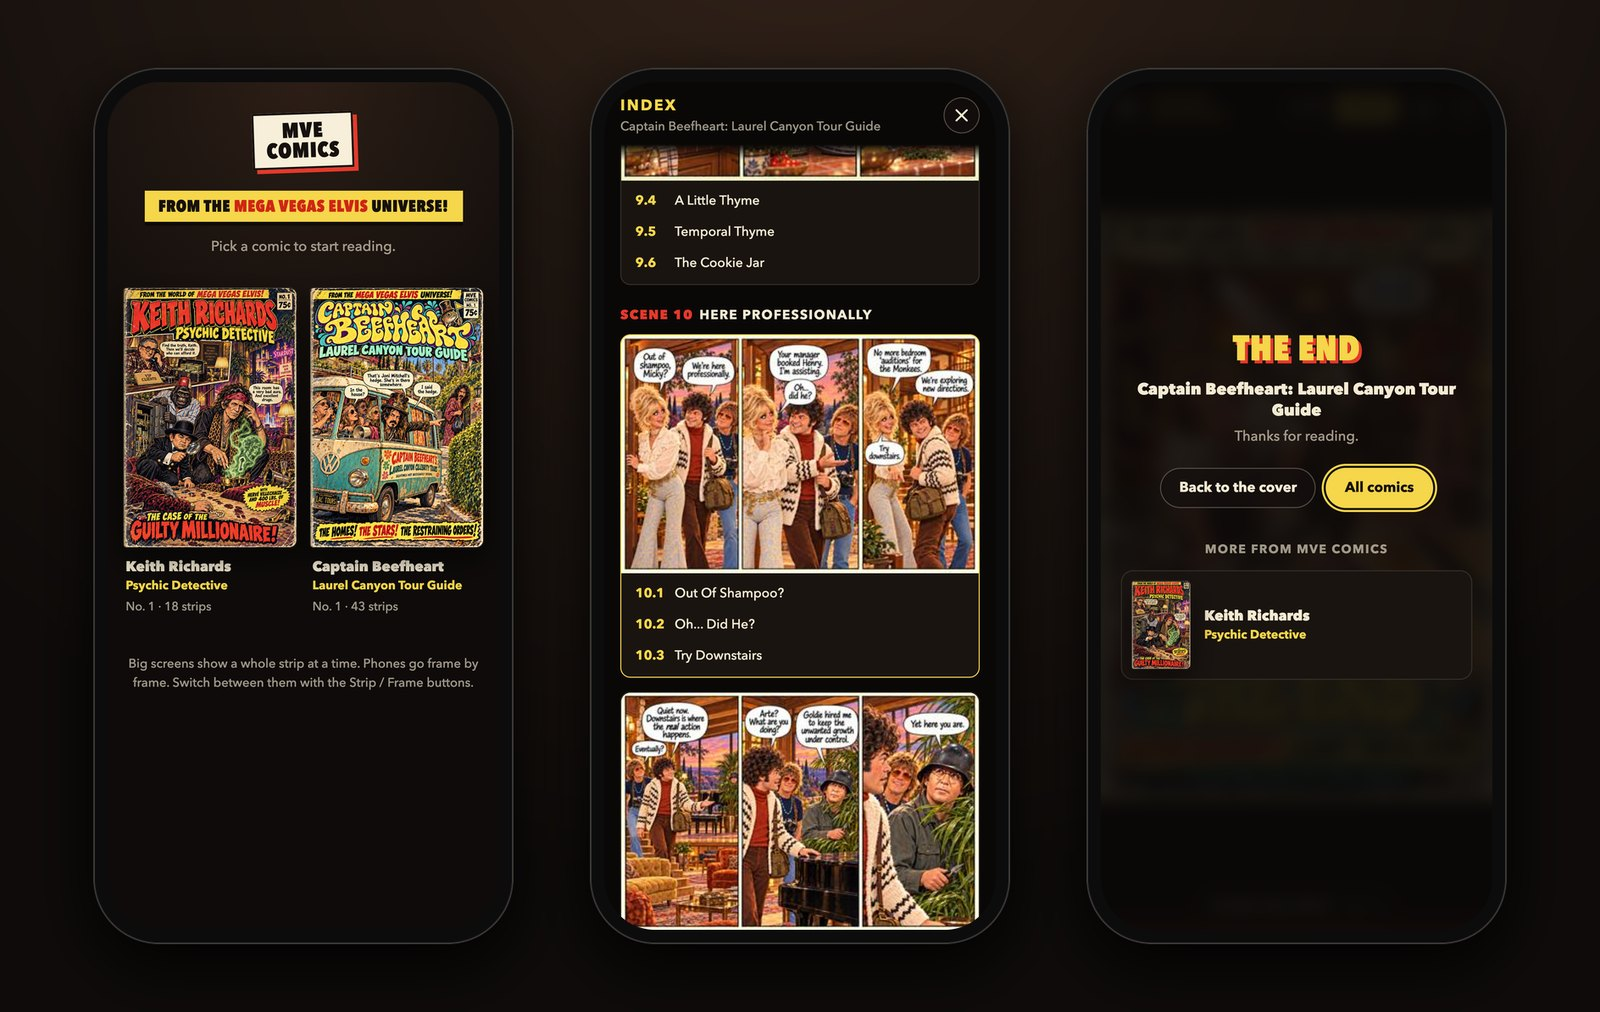
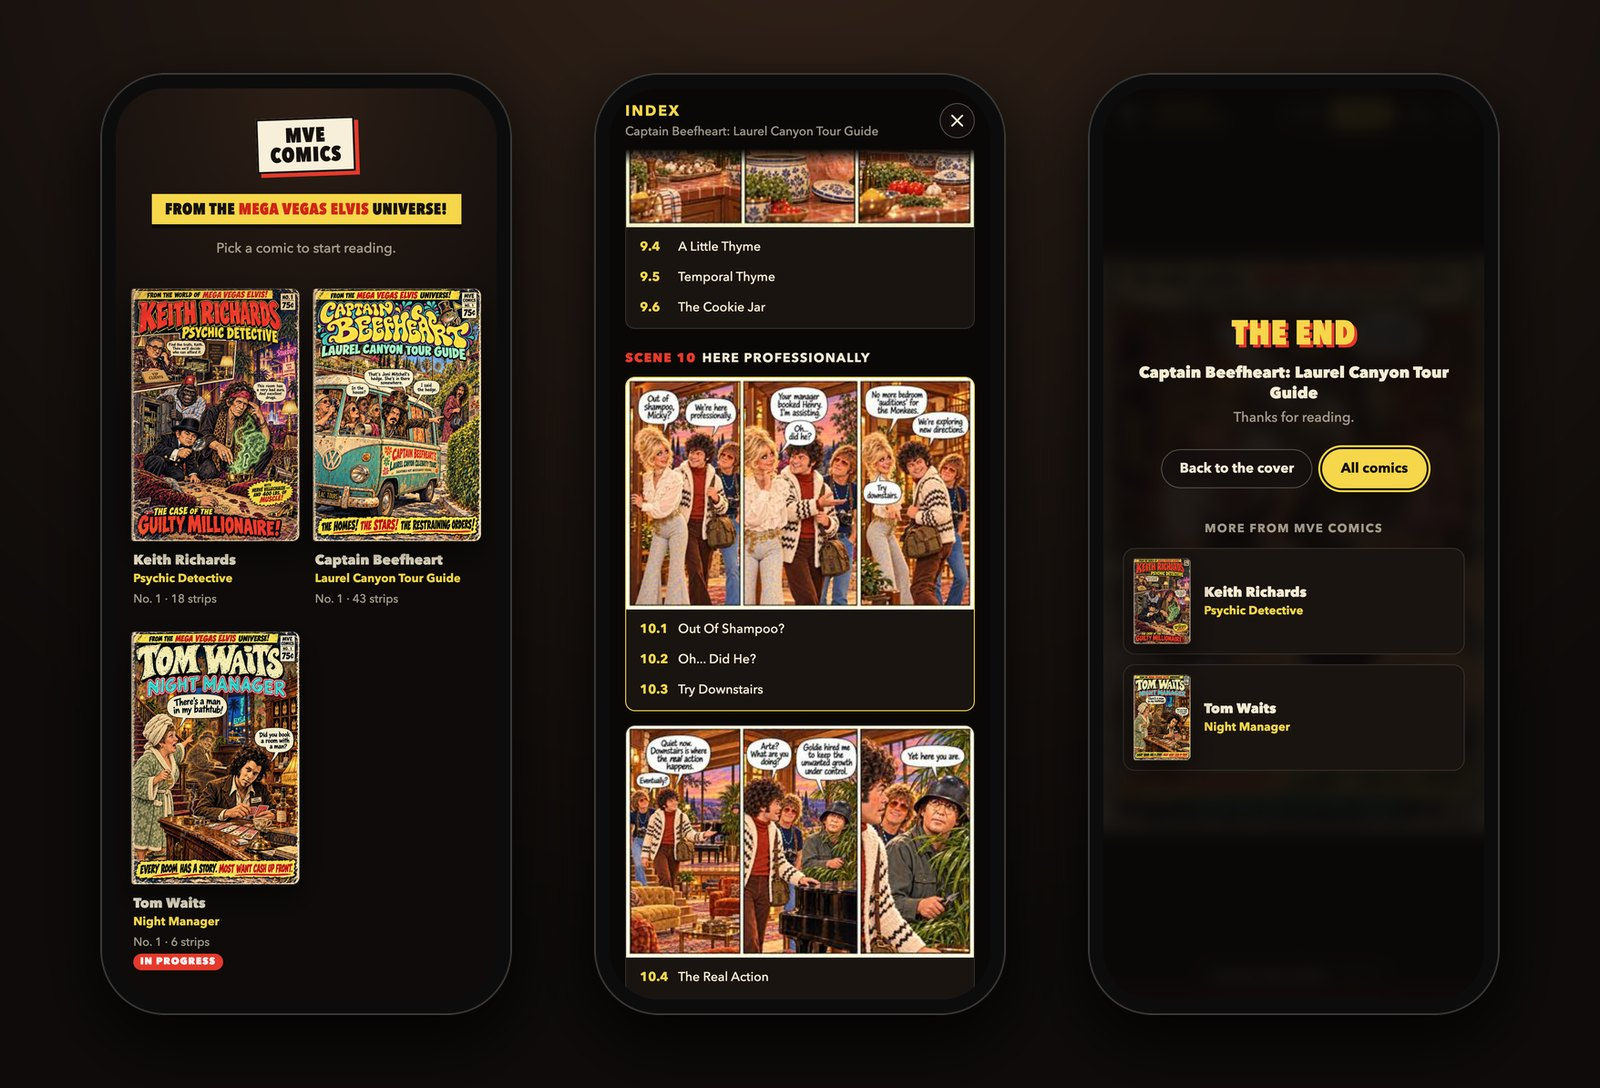
Add Tom Waits: Night Manager, in progress, and fix a fade race in the reader
The new comic has its cover and the first six strips, in three scenes
with 15 named frames. It is marked in progress, so its last page is
followed by "To be continued". It joins the shelf, the link-preview
image, and the README, whose comics section is now a row of covers with
a description under each so it reads well on narrow screens too.

Reader fix: a page jump fades out and then moves the camera to the
target it remembered when the fade began. A window resize inside that
170 ms left the camera on a stale single-frame crop while the reader
reported strip mode. The fade now moves to whichever stop is current
when it ends, and a slide or a resize cancels a pending fade.

Changed region(s): [[0.375, 0.0919, 0.625, 0.919], [0.0625, 0.0919, 0.3125, 0.919], [0.6875, 0.2757, 0.9062, 0.7045]]

diff --git a/viewer.js b/viewer.js
@@ -235,6 +235,8 @@
 
   function animateTo(R, dur) {
     cancelAnimationFrame(raf);
+    clearTimeout(fadeTimer);
+    win.classList.remove('fade');
     cam.x -= dragPx / scale; dragPx = 0;          // fold any drag into the camera
     if (reduceMotion || dur <= 0) { cam = { ...R }; setBlur(0); render(); return; }
     const from = { ...cam }, t0 = performance.now();
@@ -255,13 +257,16 @@
     raf = requestAnimationFrame(tick);
   }
 
-  function fadeTo(R) {
+  // Fades out, jumps to whichever stop is current when the fade ends, fades back in.
+  // Reading idx and mode at that moment, not when the fade began, keeps a resize or
+  // a Strip/Frame switch during the fade from being overwritten by a stale target.
+  function fadeTo() {
     cancelAnimationFrame(raf);
     clearTimeout(fadeTimer);
     dragPx = 0; setBlur(0);
-    if (reduceMotion) { cam = { ...R }; render(); return; }
+    if (reduceMotion) { cam = { ...list()[idx].R }; render(); return; }
     win.classList.add('fade');
-    fadeTimer = setTimeout(() => { cam = { ...R }; render(); win.classList.remove('fade'); }, 170);
+    fadeTimer = setTimeout(() => { cam = { ...list()[idx].R }; render(); win.classList.remove('fade'); }, 170);
   }
 
   function jumpTo(i) {
@@ -286,7 +291,7 @@
     idx = i;
     mountAround(next.page);
     const far = Math.abs(next.page - prev.page) > 1;
-    if (how === 'fade' || far) fadeTo(next.R);
+    if (how === 'fade' || far) fadeTo();
     else animateTo(next.R, next.page === prev.page ? 430 : 540);
     updateChrome();
   }
@@ -647,7 +652,8 @@
       resizeT = setTimeout(() => {
         if (!comic) return;
         if (pref === 'auto') setMode(autoMode(), false);
-        cancelAnimationFrame(raf); dragPx = 0; setBlur(0);
+        cancelAnimationFrame(raf); clearTimeout(fadeTimer); win.classList.remove('fade');
+        dragPx = 0; setBlur(0);
         cam = { ...list()[idx].R }; render(); tuckCaption();
       }, 60);
     });

diff --git a/index.html b/index.html
@@ -107,6 +107,6 @@
 
 <div id="toast" role="status"></div>
 <noscript><p style="color:#eee;padding:2rem;font-family:sans-serif">This comic reader needs JavaScript.</p></noscript>
-<script src="viewer.js?v=4" defer></script>
+<script src="viewer.js?v=5" defer></script>
 </body>
 </html>

diff --git a/README.md b/README.md
@@ -1,7 +1,7 @@
 <h1 align="center">MVE Comics</h1>
 
 <p align="center">
-  Comics from the <b>Mega Vegas Elvis Universe</b>, where rock legends take on some very unlikely side jobs.<br>
+  Comics from the <b>Mega Vegas Elvis Universe</b>, where music legends take on some very unlikely side jobs.<br>
   They come with a small web reader that fits any screen, from a laptop to a phone.
 </p>
 
@@ -15,29 +15,22 @@
 
 ## The comics
 
-<table>
-<tr>
-<td width="50%" valign="top">
-
-<a href="https://arnegleason.github.io/keith-psychic-detective/#keith-richards"><img src="comics/keith-richards/cover.jpg" alt="Cover of Keith Richards: Psychic Detective No. 1"></a>
+<p align="center">
+  <a href="https://arnegleason.github.io/keith-psychic-detective/#keith-richards"><img src="comics/keith-richards/cover.jpg" width="32%" alt="Cover of Keith Richards: Psychic Detective No. 1"></a>
+  <a href="https://arnegleason.github.io/keith-psychic-detective/#captain-beefheart"><img src="comics/captain-beefheart/cover.jpg" width="32%" alt="Cover of Captain Beefheart: Laurel Canyon Tour Guide No. 1"></a>
+  <a href="https://arnegleason.github.io/keith-psychic-detective/#tom-waits"><img src="comics/tom-waits/cover.jpg" width="32%" alt="Cover of Tom Waits: Night Manager No. 1"></a>
+</p>
 
 ### Keith Richards: Psychic Detective
-**No. 1: The Case of the Guilty Millionaire**
+**No. 1: The Case of the Guilty Millionaire** · Complete · 18 strips · [Start reading](https://arnegleason.github.io/keith-psychic-detective/#keith-richards)
 
 The red phone rings. It's Henry Kissinger, mid-pedicure, with a job. A body has turned up at
 Ambassador Boris Backhandov's private reception in Las Vegas, and the ambassador will pay
 generously for the truth, provided it leaves him out of it. Keith takes the case, with
 Hervé Villechaize and 400 lbs. of muscle.
 
-Complete · 18 strips · [Start reading](https://arnegleason.github.io/keith-psychic-detective/#keith-richards)
-
-</td>
-<td width="50%" valign="top">
-
-<a href="https://arnegleason.github.io/keith-psychic-detective/#captain-beefheart"><img src="comics/captain-beefheart/cover.jpg" alt="Cover of Captain Beefheart: Laurel Canyon Tour Guide No. 1"></a>
-
 ### Captain Beefheart: Laurel Canyon Tour Guide
-**No. 1: The Homes! The Stars! The Restraining Orders!**
+**No. 1: The Homes! The Stars! The Restraining Orders!** · Complete · 43 strips · [Start reading](https://arnegleason.github.io/keith-psychic-detective/#captain-beefheart)
 
 Captain Beefheart runs celebrity tours of Laurel Canyon from a rusty VW bus. Sightings not
 necessarily visual. Today he recruits Clint, a waiter from El Coyote, into his band, dresses him
@@ -45,11 +38,13 @@ from Vincent Price's wardrobe, and heads for Goldie Hawn's party, mostly for the
 in Goldie's kitchen, the stuffed mushrooms are getting a pinch of Temporal Thyme. By the end of
 the night, Dennis has flooded the waterfall again, and Clint finds out what the plunger was for.
 
-Complete · 43 strips · [Start reading](https://arnegleason.github.io/keith-psychic-detective/#captain-beefheart)
+### Tom Waits: Night Manager
+**No. 1: Every Room Has a Story. Most Want Cash Up Front.** · In progress · 6 strips so far · [Start reading](https://arnegleason.github.io/keith-psychic-detective/#tom-waits)
 
-</td>
-</tr>
-</table>
+San Diego, 1973. Tom works the night desk at the Hotel Elysian, and sends a ghost named Fats when
+something needs doing. At 2:40 a.m., guest Chuck Connors calls down about a smell. It's Slim Pickens,
+grilling liver in the parking lot to tempt Doris Day, under the wrong window. Tom swears he only
+mentioned a blonde upstairs.
 
 ## Reading on any screen
 
@@ -96,7 +91,7 @@ The comics are prepared ahead of time by `tools/build.py`:
 1. **It finds the panels.** It looks for the cream-colored gutters that run the full height of
    each strip, so nobody has to draw frame boxes by hand.
 2. **It makes web images.** It writes optimized JPEGs, thumbnails and covers. The original PNGs
-   come to about 195 MB and the web versions to about 29 MB. The reader then loads only the
+   come to about 224 MB and the web versions to about 34 MB. The reader then loads only the
    pages near where you are.
 3. **It writes the data.** It combines the panels with the scene and frame names from each
    comic's story file into the `comic.json` the reader uses.
